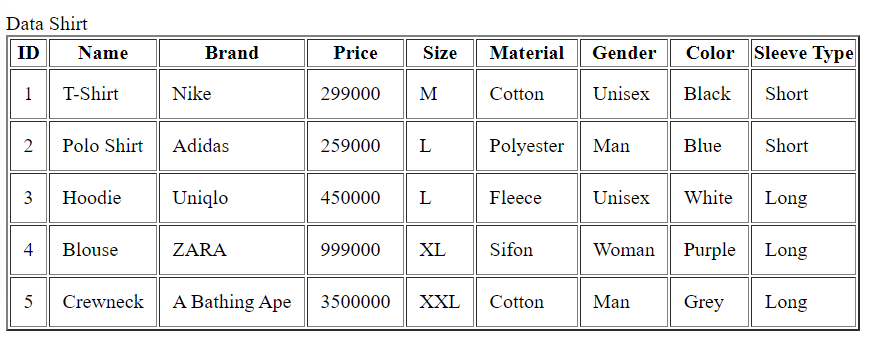
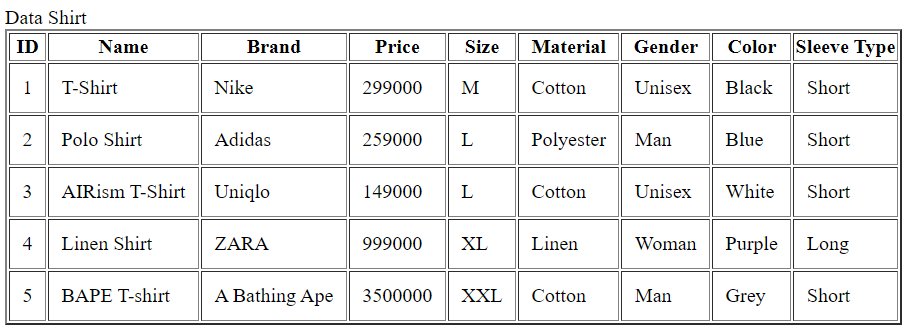
update

Changed region(s): [[0.0, 0.0301, 1.0, 0.994], [0.1858, 0.241, 0.2787, 0.3012]]

diff --git a/PHP/Main.php b/PHP/Main.php
@@ -37,34 +37,34 @@ $shirt2->setColor("Blue");
 $shirt2->setTypes("Short");
 
 $shirt3->setId("3");
-$shirt3->setName("Hoodie");
+$shirt3->setName("AIRism T-Shirt");
 $shirt3->setBrand("Uniqlo");
-$shirt3->setPrice("450000");
+$shirt3->setPrice("149000");
 $shirt3->setSize("L");
-$shirt3->setMaterial("Fleece");
+$shirt3->setMaterial("Cotton");
 $shirt3->setGender("Unisex");
 $shirt3->setColor("White");
-$shirt3->setTypes("Long");
+$shirt3->setTypes("Short");
 
 $shirt4->setId("4");
-$shirt4->setName("Blouse");
+$shirt4->setName("Linen Shirt");
 $shirt4->setBrand("ZARA");
 $shirt4->setPrice("999000");
 $shirt4->setSize("XL");
-$shirt4->setMaterial("Sifon");
+$shirt4->setMaterial("Linen");
 $shirt4->setGender("Woman");
 $shirt4->setColor("Purple");
 $shirt4->setTypes("Long");
 
 $shirt5->setId("5");
-$shirt5->setName("Crewneck");
+$shirt5->setName("BAPE T-shirt");
 $shirt5->setBrand("A Bathing Ape");
 $shirt5->setPrice("3500000");
 $shirt5->setSize("XXL");
 $shirt5->setMaterial("Cotton");
 $shirt5->setGender("Man");
 $shirt5->setColor("Grey");
-$shirt5->setTypes("Long");
+$shirt5->setTypes("Short");
 
 //masukkan objek ke array
 $shirt = array($shirt1, $shirt2, $shirt3, $shirt4, $shirt5);

diff --git a/README.md b/README.md
@@ -1,1 +1,24 @@
 # LP2DPBO2024C1
+
+## Janji
+
+Saya Sabila Rosad NIM 2106000 mengerjakan latihan 2
+dalam mata kuliah Desain Pemrograman Berorientasi Objek
+untuk keberkahanNya maka saya tidak melakukan
+kecurangan seperti yang telah dispesifikasikan
+Aamiin.
+
+## Soal
+
+Buatlah program berbasis OOP menggunakan bahasa pemrograman C++, Java, Python, dan PHP yang mengimplementasikan konsep Multi-level Inheritance pada kelas - kelas tersebut:
+
+- Product: idProduct, name, brand, price
+- Clothing: size, material, gender
+- Shirt: color, sleeve_type
+
+## Desain Program
+
+Alasan desain program : <br>
+
+a. Clothing is a Product, karena Clothing merupakan sebuah Product <br>
+b. Shirt is a Clothing, Shirt merupakan bagian dari sebuah Clothing (Sebuah brand Clothing bisa menjual selain Shirt), dan pastinya Shirt adalah sebuah Product
